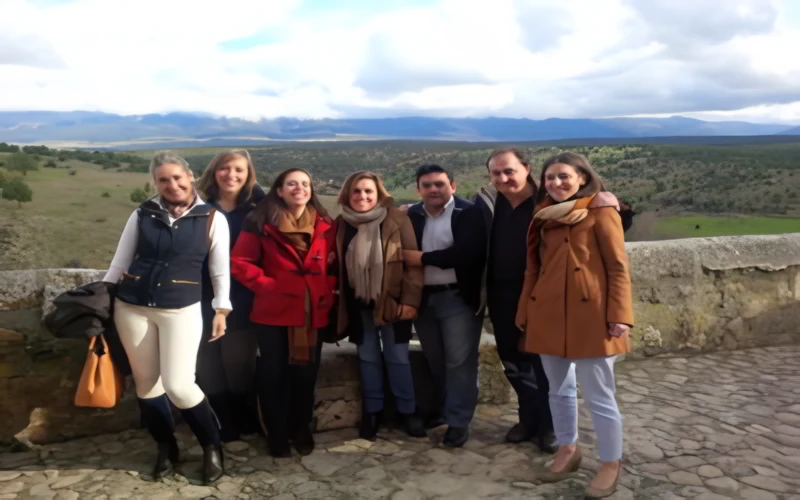
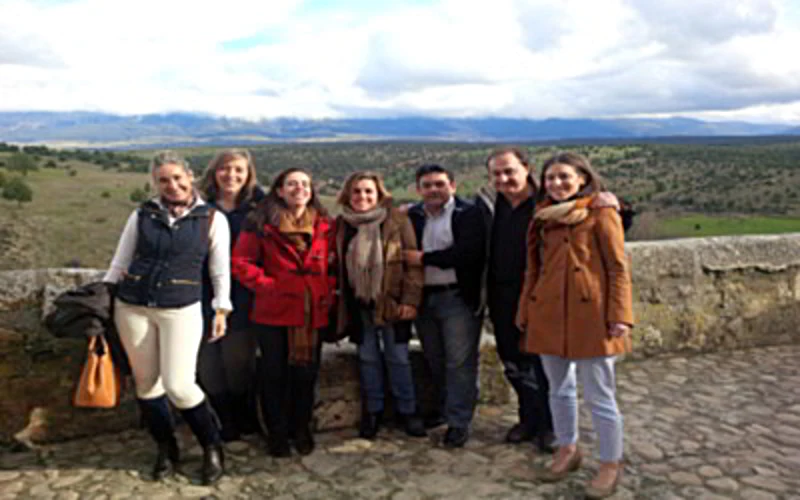
fix: foto del equipo restaurada y abanico más grande
- La foto del equipo vuelve a la versión anterior (solo enfoque suave,
  sin IA): la IA cambiaba su estética
- El abanico de categorías, más grande (≈1040 px a 1440) y con menos
  espacio en blanco; rótulos largos en dos líneas
- Revisión: las invitaciones ya no se desplazan en vertical en móvil;
  el telón no pisa la foto en tableta; en tableta siempre asoma la
  siguiente tarjeta; el trazo bajo «la fiesta de tus sueños» mide
  la frase; el destello no sale de su caja; entrada del DJ apilada
  en carteles estrechos; respaldo de overflow para Safari antiguo

diff --git a/prototype/assets/css/home.css b/prototype/assets/css/home.css
@@ -265,7 +265,7 @@
 .sobre__sello::before{content:'';position:absolute;inset:15px;background:var(--metal);clip-path:polygon(50% 0,100% 50%,50% 100%,0 50%)}
 .invitacion.abierta .sobre__sello{transform:scale(1.4);opacity:0}
 .invitacion.abierta .sobre__solapa{transform:rotateX(-172deg);opacity:0}
-.invitacion.abierta .sobre{opacity:0;transform:translateY(16%)}
+.invitacion.abierta .sobre{opacity:0;transform:translateY(5%) scale(.96)}
 /* La invitación sale del sobre */
 .invitacion.abierta .invitacion__inclina{animation:saleDelSobre .95s var(--muelle) calc(1.85s + var(--i) * .18s) backwards}
 @keyframes saleDelSobre{from{transform:translateY(3%) scale(.9)}}
@@ -304,7 +304,7 @@
 @media (max-width:899px){
   .mesa{
     grid-template-columns:none;grid-auto-flow:column;grid-auto-columns:min(80vw,360px);
-    overflow-x:auto;scroll-snap-type:x mandatory;scrollbar-width:none;
+    overflow-x:auto;overflow-y:hidden;scroll-snap-type:x mandatory;scrollbar-width:none;
     margin-inline:calc(var(--margen) * -1);padding:12px var(--margen) 28px;
   }
   .mesa::-webkit-scrollbar{display:none}
@@ -338,15 +338,17 @@
 .buscador__borrar svg{width:18px;height:18px}
 
 .abanico__mano{
-  --vh:240px;--pivote:250px;--paso:13.5deg;--sube:30px;
+  /* v3: más grande (≈1040 px de ancho a 1440) y sin aire de sobra arriba */
+  --vh:clamp(240px,23vw,330px);--pivote:clamp(250px,24vw,345px);--paso:13.5deg;--sube:30px;
   --r:calc(var(--vh) + var(--pivote));
   --ancho:calc(var(--r) * .235);          /* cuerda de la cuña en la punta */
   --base:calc(var(--ancho) * .51);        /* cuerda junto al eje: ancho × pivote / radio */
   --pie:52px;                             /* hueco para la pista, bajo el abanico */
-  position:relative;height:calc(var(--vh) * 1.62 + var(--pie));margin-top:clamp(20px,3vw,40px);
+  --linea:calc(var(--pivote) * .25 + var(--pie));   /* base de las varillas: las de los extremos bajan hasta aquí */
+  position:relative;height:calc(var(--linea) + var(--vh) + var(--sube) + 12px);margin-top:clamp(8px,1.6vw,22px);
 }
 .abanico__varillas{
-  position:absolute;left:50%;bottom:calc(var(--vh) * .2 + var(--pie));width:0;height:0;
+  position:absolute;left:50%;bottom:var(--linea);width:0;height:0;
   transform-origin:0 var(--pivote);animation:mecer 7s ease-in-out infinite alternate;
   filter:drop-shadow(0 0 1px rgba(87,119,125,.55)) drop-shadow(0 16px 22px rgba(15,39,49,.18));
 }
@@ -361,16 +363,16 @@
 }
 .varilla__cara{
   position:relative;isolation:isolate;display:flex;flex-direction:column;align-items:center;gap:8px;
-  width:100%;height:100%;padding:20px 8px 12px;color:var(--tinta);
+  width:100%;height:100%;padding:clamp(20px,2.2vw,32px) 10px 14px;gap:clamp(8px,.8vw,12px);color:var(--tinta);
   background:linear-gradient(90deg,#E6F0F2 0%,#FFFFFF 48%,#EAF3F5 100%);
 }
 .varilla:nth-child(even) .varilla__cara{background:linear-gradient(90deg,#DCEAED 0%,#F6FBFC 48%,#DFEDEF 100%)}
 .varilla__cara::before,.varilla__cara::after{content:'';position:absolute;inset:0;z-index:-1;opacity:0;transition:opacity .2s linear}
 .varilla__cara::before{background:var(--metal)}
 .varilla__cara::after{background:linear-gradient(180deg,#1B4655 0%,var(--noche) 100%)}
-.varilla__icono{width:34px;height:34px;color:var(--sombra-2)}
-.varilla__t{font-weight:600;font-size:15px;line-height:1.2;text-wrap:balance}
-.varilla__n{font-size:13px;color:var(--texto-suave)}
+.varilla__icono{width:clamp(34px,3.2vw,48px);height:clamp(34px,3.2vw,48px);color:var(--sombra-2)}
+.varilla__t{max-width:9.5ch;font-weight:600;font-size:clamp(15px,.9vw + 4.5px,18.5px);line-height:1.2;text-align:center;text-wrap:balance}
+.varilla__n{font-size:clamp(13px,.55vw + 6.5px,15px);color:var(--texto-suave)}
 @media (hover:hover){
   .varilla:hover{transform:rotate(calc((var(--i) - 3) * var(--paso))) translateY(calc(var(--sube) * -1))}
   .varilla:hover .varilla__cara::before{opacity:1}
@@ -386,7 +388,7 @@
 
 /* Varillas estrechas: el rótulo va a lo largo de la varilla */
 @media (max-width:899px){
-  .abanico__mano{--vh:168px;--pivote:128px;--paso:10deg;--sube:20px;--ancho:calc(var(--r) * .175);--base:calc(var(--ancho) * .43);height:calc(var(--vh) * 1.75 + var(--pie))}
+  .abanico__mano{--vh:168px;--pivote:128px;--paso:10deg;--sube:20px;--ancho:calc(var(--r) * .175);--base:calc(var(--ancho) * .43)}
   .varilla__cara{padding:12px 4px 8px;gap:6px}
   .varilla__icono{width:24px;height:24px}
   .varilla__t{writing-mode:vertical-rl;transform:rotate(180deg);font-size:14px;white-space:nowrap}
@@ -664,6 +666,16 @@ html:not(.js) .pase__foto:first-child,.quieto .pase__foto:first-child{opacity:1;
   .js .cartelera:not(.visible) .cartel{transform:translateY(40px)}
   .sello{right:-6px;width:84px;height:84px;font-size:13.5px}
 }
+/* En tableta (640-899 px) siempre asoma la siguiente invitación o cartel */
+@media (min-width:640px) and (max-width:899px){
+  .mesa,.cartelera{grid-auto-columns:calc((100vw - var(--margen)) / 2.3)}
+}
+/* La entrada con el precio, apilada cuando el cartel es estrecho */
+@media (min-width:900px) and (max-width:1180px),(max-width:420px){
+  .entrada{flex-direction:column;gap:6px;padding:12px 22px}
+  .entrada__n{padding:0 0 6px;border-right:0;border-bottom:2px dashed rgba(15,39,49,.35)}
+  .entrada__d{max-width:none;text-align:center}
+}
 
 /* /@bloque promo */
 
@@ -678,7 +690,7 @@ html:not(.js) .pase__foto:first-child,.quieto .pase__foto:first-child{opacity:1;
 .escenario{margin:0;width:100%;max-width:680px;justify-self:center}
 .escenario__boca{
   position:relative;isolation:isolate;overflow:hidden;border-radius:20px;
-  padding:clamp(34px,4.4vw,52px) clamp(16px,2.4vw,28px) clamp(22px,3vw,34px);
+  padding:clamp(34px,4.4vw,52px) max(clamp(16px,2.4vw,28px),calc(4.4% + 6px)) clamp(22px,3vw,34px);
   background:radial-gradient(80% 60% at 50% 100%,rgba(72,134,151,.45) 0%,transparent 70%),linear-gradient(180deg,var(--noche-2) 0%,var(--noche) 55%,var(--noche-3) 100%);
   box-shadow:0 0 0 1px rgba(194,220,224,.4),0 0 0 7px rgba(15,39,49,.07),var(--sombra-3);
 }
@@ -737,7 +749,7 @@ html:not(.js) .pase__foto:first-child,.quieto .pase__foto:first-child{opacity:1;
 /* =====================================================================
    CONTACTO · de noche
    ===================================================================== */
-.contacto{overflow:clip;background:radial-gradient(90% 60% at 50% 0%,rgba(72,134,151,.4) 0%,transparent 70%),linear-gradient(180deg,#0F2731,#0B2029)}
+.contacto{overflow:hidden;overflow:clip;background:radial-gradient(90% 60% at 50% 0%,rgba(72,134,151,.4) 0%,transparent 70%),linear-gradient(180deg,#0F2731,#0B2029)}
 .escena__focos--suave{opacity:.55}
 .contacto__env{position:relative;z-index:1;display:grid;gap:40px;align-items:start}
 @media (min-width:1000px){.contacto__env{grid-template-columns:minmax(0,5fr) minmax(0,7fr);gap:64px}}
@@ -753,13 +765,14 @@ html:not(.js) .pase__foto:first-child,.quieto .pase__foto:first-child{opacity:1;
 }
 /* Destello: una ventana que avanza mientras su copia del texto retrocede
    lo mismo, así la luz recorre las letras sin mover nada más (solo transform) */
-.suenos__brillo{
-  position:absolute;inset:0 0 .18em;overflow:hidden;pointer-events:none;
+.suenos__brillo{position:absolute;inset:0 0 .18em;overflow:hidden;pointer-events:none}
+.suenos__ventana{
+  position:absolute;inset:0;overflow:hidden;
   -webkit-mask-image:linear-gradient(90deg,transparent 0,#000 42%,#000 58%,transparent 100%);
           mask-image:linear-gradient(90deg,transparent 0,#000 42%,#000 58%,transparent 100%);
   animation:ventana 6.5s cubic-bezier(.45,.05,.35,1) 1.2s infinite;
 }
-.suenos__brillo > span{
+.suenos__ventana > span{
   display:block;background:linear-gradient(180deg,#FFFFFF 0%,#F2FEFF 55%,#D9F6F7 100%);
   -webkit-background-clip:text;background-clip:text;color:transparent;
   animation:contraventana 6.5s cubic-bezier(.45,.05,.35,1) 1.2s infinite;
@@ -776,9 +789,9 @@ html:not(.js) .pase__foto:first-child,.quieto .pase__foto:first-child{opacity:1;
 .suenos__chispa:nth-of-type(1){top:-.18em;left:-.22em;animation-delay:.2s}
 .suenos__chispa:nth-of-type(2){top:.1em;right:-.36em;width:.24em;height:.24em;animation-delay:1.1s}
 .suenos__chispa:nth-of-type(3){bottom:.02em;left:38%;width:.2em;height:.2em;animation-delay:2s}
-.suenos__chispa:nth-of-type(4){top:-.3em;left:62%;width:.26em;height:.26em;animation-delay:2.7s}
+.suenos__chispa:nth-of-type(4){top:-.08em;left:82%;width:.26em;height:.26em;animation-delay:2.7s}
 @keyframes titilar{0%,100%{opacity:0;transform:scale(.3) rotate(0deg)}45%{opacity:1;transform:scale(1) rotate(45deg)}70%{opacity:0;transform:scale(.4) rotate(90deg)}}
-.fuera .suenos__brillo,.fuera .suenos__brillo > span,.fuera .suenos__chispa{animation-play-state:paused}
+.fuera .suenos__ventana,.fuera .suenos__ventana > span,.fuera .suenos__chispa{animation-play-state:paused}
 .quieto .suenos__brillo,.quieto .suenos__chispa{display:none}
 .quieto .suenos__trazo{transform:none}
 .contacto__entrada{margin-top:18px;font-size:clamp(17px,.4vw + 15.5px,20px);color:var(--hielo)}

diff --git a/prototype/index.html b/prototype/index.html
@@ -713,7 +713,7 @@
     <div class="contacto__info">
       <h2 id="con-t" class="titulo contacto__t">
         <span class="contacto__pre">Hagamos realidad</span>
-        <em class="suenos">la fiesta de tus sueños<span class="suenos__brillo" aria-hidden="true"><span>la fiesta de tus sueños</span></span><svg class="suenos__trazo" viewBox="0 0 400 22" preserveAspectRatio="none" aria-hidden="true"><path d="M3 15C70 5 150 3 220 9s120 9 177-3" fill="none" stroke="currentColor" stroke-width="3" stroke-linecap="round"/></svg><i class="suenos__chispa" aria-hidden="true"></i><i class="suenos__chispa" aria-hidden="true"></i><i class="suenos__chispa" aria-hidden="true"></i><i class="suenos__chispa" aria-hidden="true"></i></em>
+        <em class="suenos">la fiesta de<br> tus sueños<span class="suenos__brillo" aria-hidden="true"><span class="suenos__ventana"><span>la fiesta de<br> tus sueños</span></span></span><svg class="suenos__trazo" viewBox="0 0 400 22" preserveAspectRatio="none" aria-hidden="true"><path d="M3 15C70 5 150 3 220 9s120 9 177-3" fill="none" stroke="currentColor" stroke-width="3" stroke-linecap="round"/></svg><i class="suenos__chispa" aria-hidden="true"></i><i class="suenos__chispa" aria-hidden="true"></i><i class="suenos__chispa" aria-hidden="true"></i><i class="suenos__chispa" aria-hidden="true"></i></em>
       </h2>
       <p class="contacto__entrada">Ponte en contacto con nosotros y deja en nuestras manos tus ideas.</p>
       <ul class="datos">

diff --git a/prototype/assets/css/global.css b/prototype/assets/css/global.css
@@ -108,7 +108,7 @@ svg{flex:none}
 .vo{position:absolute!important;width:1px;height:1px;padding:0;margin:-1px;overflow:hidden;clip-path:inset(50%);white-space:nowrap;border:0}
 
 .env{width:100%;max-width:var(--env);margin-inline:auto;padding-inline:var(--margen)}
-.seccion{position:relative;padding-block:var(--sec);overflow-x:clip}
+.seccion{position:relative;padding-block:var(--sec);overflow-x:hidden;overflow-x:clip}   /* hidden: respaldo para Safari antiguo */
 
 /* ---------- Títulos: Yeseva One, glamour que se lee a la primera ---------- */
 .titulo{
